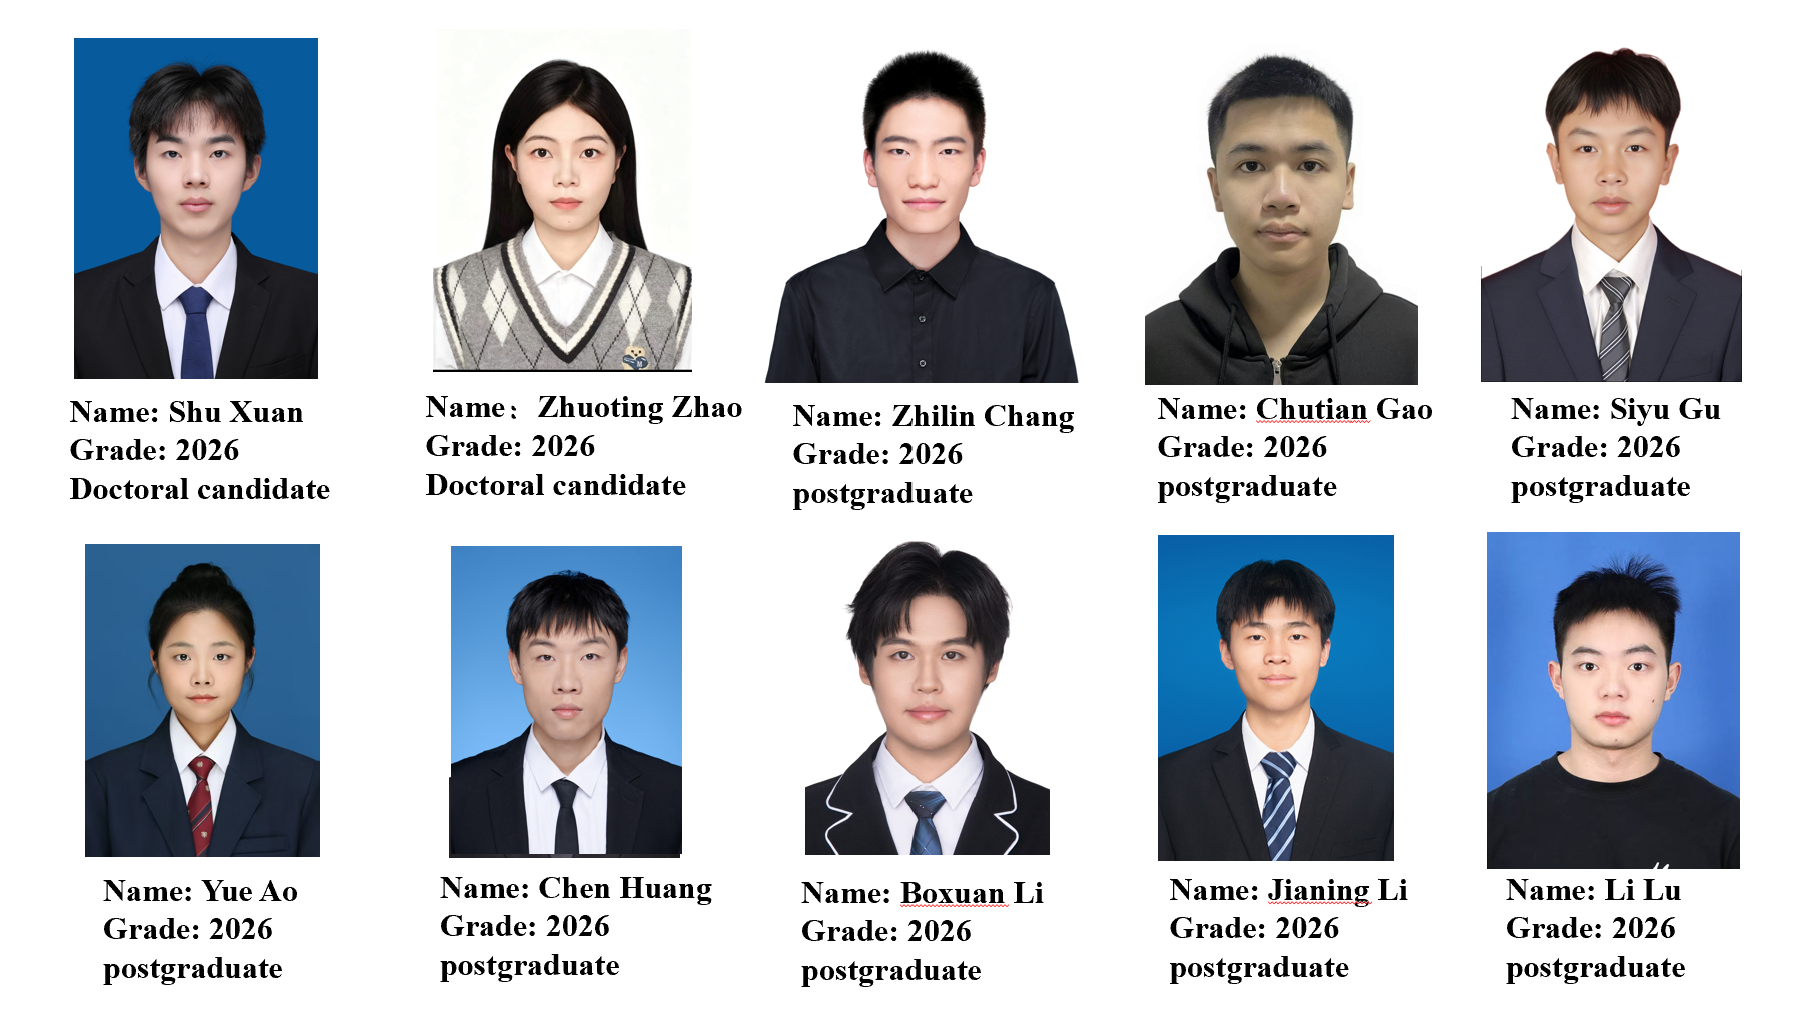
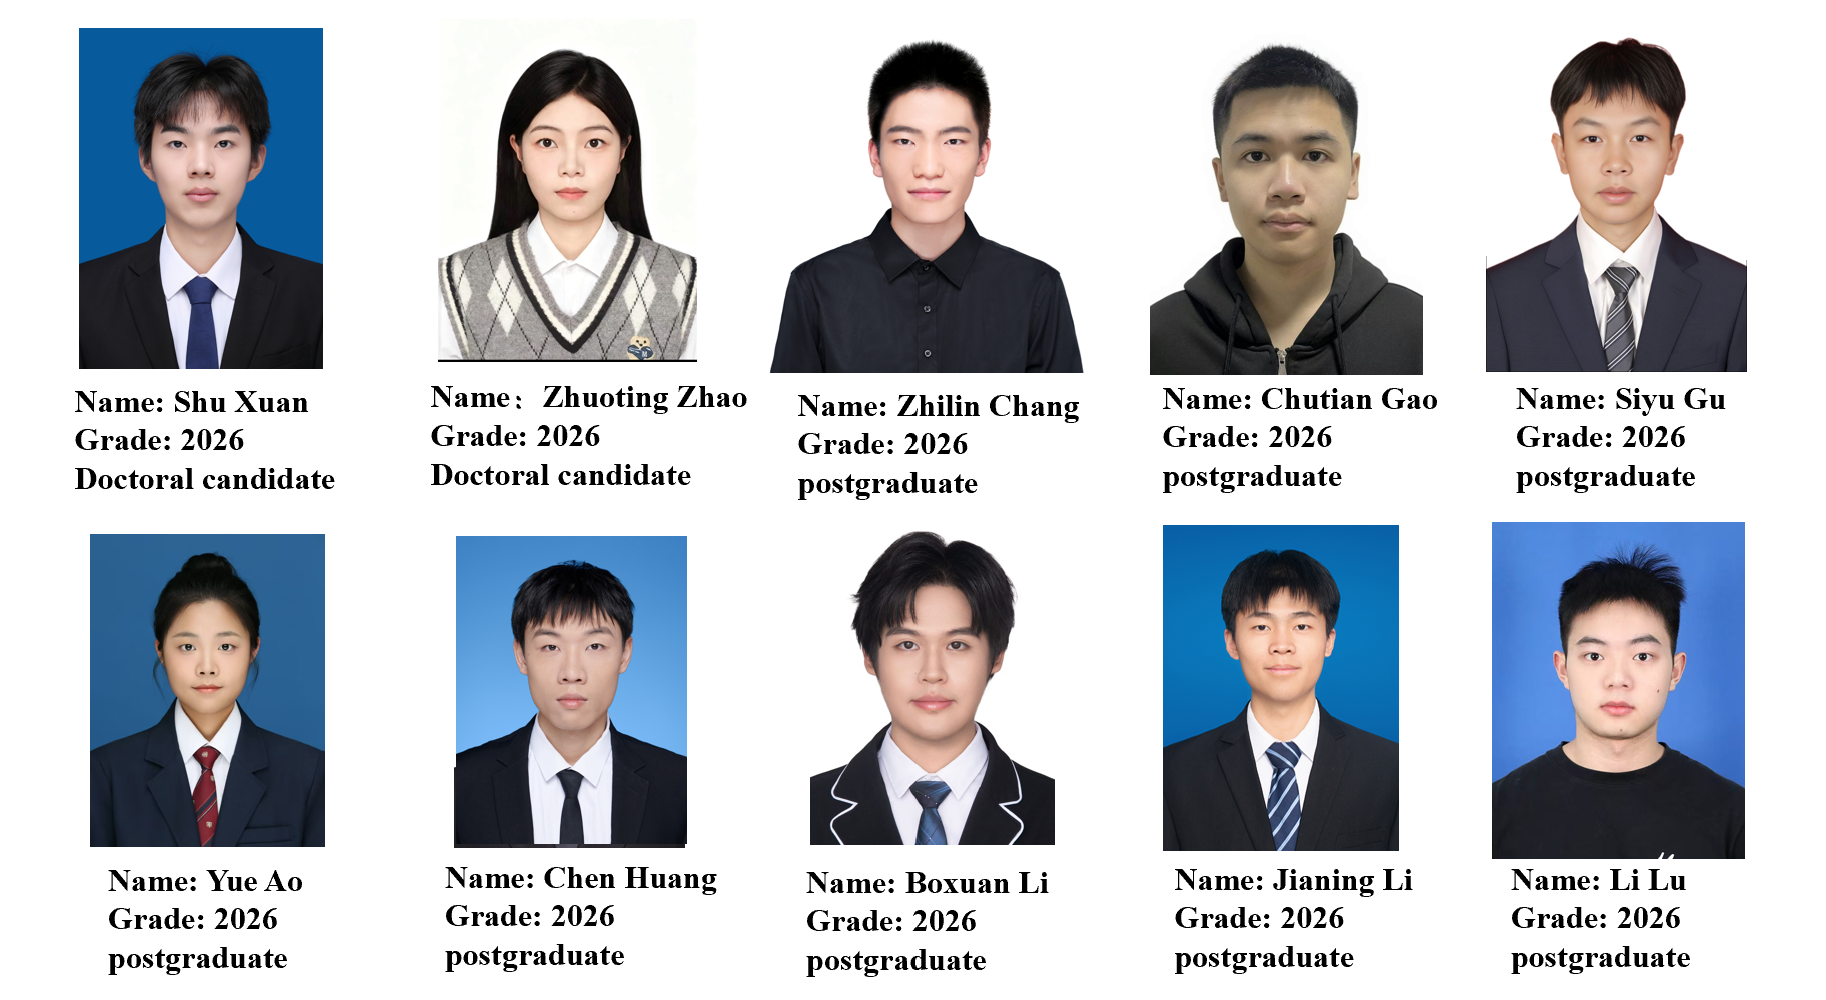
20261113 members

diff --git a/_publications/2026-01-01-192-kV5-A-Ga2O3-Schottky-Barrier-Diodes-With-Room-Temperature-Sputtered-Al2O3-Field-Plate.md b/_publications/2026-01-01-192-kV5-A-Ga2O3-Schottky-Barrier-Diodes-With-Room-Temperature-Sputtered-Al2O3-Field-Plate.md
@@ -1,7 +1,7 @@
 ---
 title: "1.92 kV/5 A β-Ga2O3 Schottky Barrier Diodes With Room-Temperature Sputtered Al2O3 Field Plate"
 collection: publications
-permalink: /publication/2026-01-01-192-kV5-A-Ga2O3-Schottky-Barrier-Diodes-With-Room-Temperature-Sputtered-Al2O3-Field-Plate
+permalink: /publication/2026-11-11-192-kV5-A-Ga2O3-Schottky-Barrier-Diodes-With-Room-Temperature-Sputtered-Al2O3-Field-Plate
 date: 2026-01-01
 venue: 'IEEE Transactions on Electron Devices'
 citation: ' Yeye Guo,  Hao Zhang,  Jining Yang,  Yongjie He,  Yiwen Yu,  Senchong Zhao,  Haichuan Yu,  Yangxue Ou,  Hao Zhu,  Chenjie Gu,  Wenjun Liu, &quot;1.92 kV/5 A β-Ga2O3 Schottky Barrier Diodes With Room-Temperature Sputtered Al2O3 Field Plate.&quot; IEEE Transactions on Electron Devices, 2026.'
